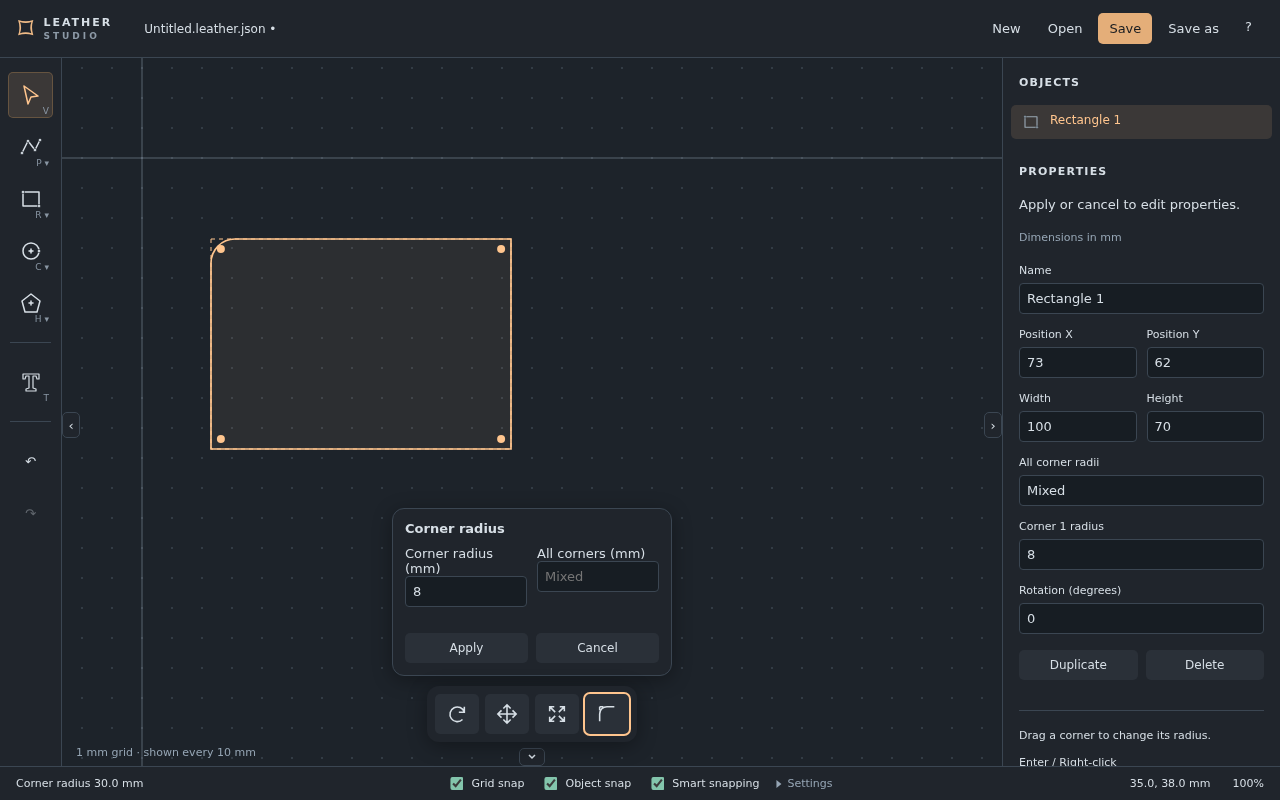
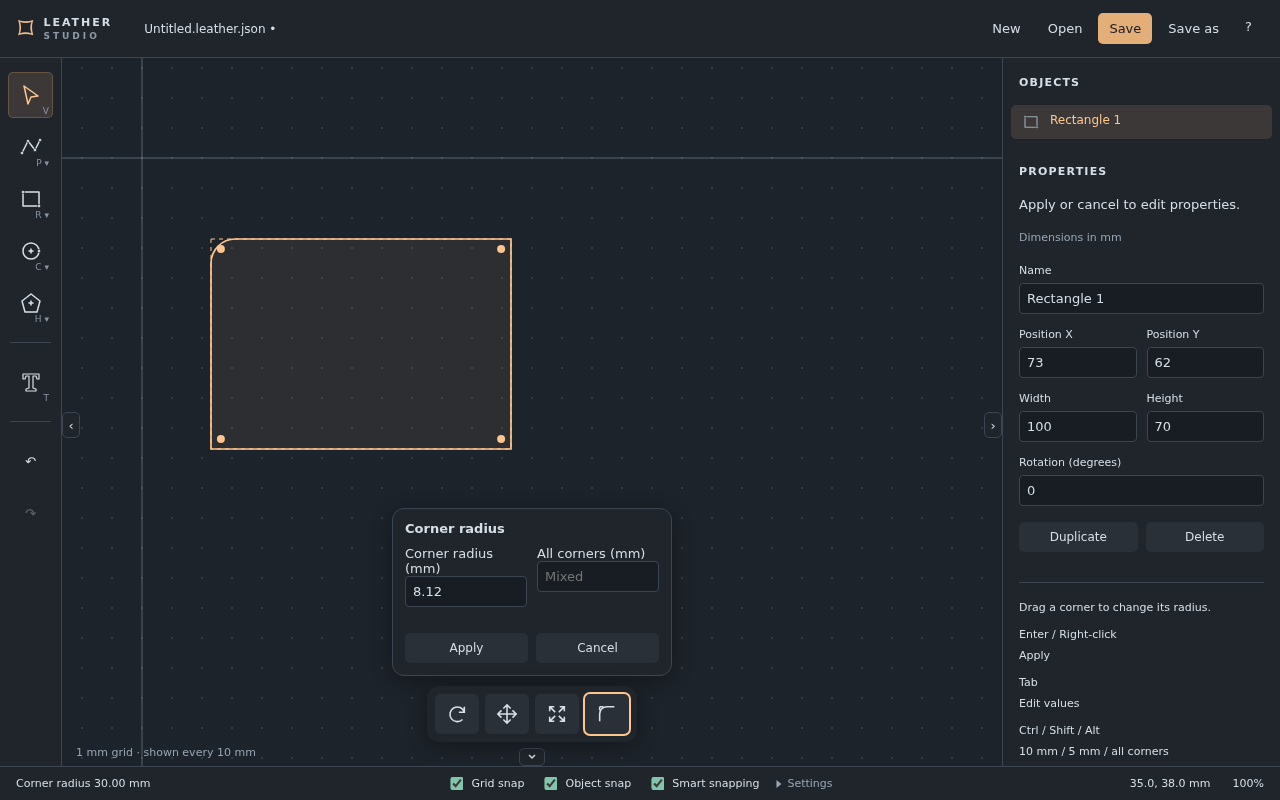
Remove corner radius fields from Properties

diff --git a/tests/editor.spec.ts b/tests/editor.spec.ts
@@ -15,6 +15,21 @@ async function rect(page: any) {
   await page.getByRole("button", { name: "Select (V)", exact: true }).click();
   await expect(page.getByLabel("Width", { exact: true })).toBeVisible();
 }
+async function cornerRadius(page: any) {
+  await page.getByRole("button", { name: "Corner radius", exact: true }).click();
+  await page.getByLabel("Pattern drawing canvas").click({
+    position: { x: 160, y: 190 },
+  });
+  return page.getByLabel("All corners (mm)", { exact: true });
+}
+async function expectRadius(page: any, value: string) {
+  await expect(await cornerRadius(page)).toHaveValue(value);
+  await page.getByRole("button", { name: "Cancel", exact: true }).click();
+}
+async function setRadius(page: any, value: string) {
+  await (await cornerRadius(page)).fill(value);
+  await page.getByRole("button", { name: "Apply", exact: true }).click();
+}
 test("precise rectangle, rounded corners, undo, redo and download", async ({
   page,
 }) => {
@@ -23,19 +38,12 @@ test("precise rectangle, rounded corners, undo, redo and download", async ({
   const width = page.getByLabel("Width", { exact: true });
   await width.fill("100");
   await width.press("Enter");
-  await page.getByLabel("All corner radii", { exact: true }).fill("10");
-  await page.getByLabel("All corner radii", { exact: true }).press("Enter");
-  await expect(
-    page.getByLabel("All corner radii", { exact: true }),
-  ).toHaveValue("10");
+  await setRadius(page, "10");
+  await expectRadius(page, "10");
   await page.getByRole("button", { name: "Undo", exact: true }).click();
-  await expect(
-    page.getByLabel("All corner radii", { exact: true }),
-  ).toHaveValue("0");
+  await expectRadius(page, "0");
   await page.getByRole("button", { name: "Redo", exact: true }).click();
-  await expect(
-    page.getByLabel("All corner radii", { exact: true }),
-  ).toHaveValue("10");
+  await expectRadius(page, "10");
   // Force the portable download path even in Chromium.
   await page.evaluate(() => {
     Object.defineProperty(window, "showSaveFilePicker", {
@@ -191,8 +199,7 @@ test("saved project opens and invalid file preserves current work", async ({
 }, info) => {
   await ready(page);
   await rect(page);
-  await page.getByLabel("All corner radii", { exact: true }).fill("8");
-  await page.getByLabel("All corner radii", { exact: true }).press("Enter");
+  await setRadius(page, "8");
   await page.evaluate(() => {
     delete (window as any).showSaveFilePicker;
     delete (window as any).showOpenFilePicker;
@@ -207,9 +214,7 @@ test("saved project opens and invalid file preserves current work", async ({
   await page.getByRole("button", { name: "Open", exact: true }).click();
   await (await chooser).setFiles(path);
   await page.locator(".objects button").first().click();
-  await expect(
-    page.getByLabel("All corner radii", { exact: true }),
-  ).toHaveValue("8");
+  await expectRadius(page, "8");
   chooser = page.waitForEvent("filechooser");
   await page.getByRole("button", { name: "Open", exact: true }).click();
   await (
@@ -293,11 +298,11 @@ test("corner tool previews, edits numerically and applies once", async ({
   await canvas.focus();
   await page.screenshot({ path: testInfo.outputPath("corner-radii.png") });
   await page.getByRole("button", { name: "Apply", exact: true }).click();
-  await expect(page.getByLabel("Corner 1 radius", { exact: true })).toHaveValue(
-    "8.12",
-  );
+  await expect(page.getByLabel("Corner 1 radius", { exact: true })).toHaveCount(0);
+  await expect(page.getByLabel("All corner radii", { exact: true })).toHaveCount(0);
+  await cornerRadius(page);
+  await expect(corner).toHaveValue("8.12");
+  await page.getByRole("button", { name: "Cancel", exact: true }).click();
   await page.getByRole("button", { name: "Undo", exact: true }).click();
-  await expect(
-    page.getByLabel("All corner radii", { exact: true }),
-  ).toHaveValue("0");
+  await expectRadius(page, "0");
 });

diff --git a/src/vue/Inspector.vue b/src/vue/Inspector.vue
@@ -1,8 +1,6 @@
 <script setup lang="ts">
 import { computed } from "vue";
 import {
-  cornerRadii,
-  setCornerRadius,
   isPolygon,
   polygonFillets,
   center,
@@ -47,14 +45,6 @@ const e = useEditor(),
         Math.hypot(matrix.value.c, matrix.value.d),
   ),
   vertices = computed(() => worldPoints(s.value!));
-const selectedRadii = computed(() => (s.value ? cornerRadii(s.value) : []));
-const selectedCornerShape = computed(() => {
-  const corner = e.value.selectedCorner;
-  const shape = selected.value.find((shape) => shape.id === corner?.shapeId);
-  return shape && corner && corner.index < cornerRadii(shape).length
-    ? shape
-    : null;
-});
 function isSharp(shape: Shape, index: number) {
   const handles = shape.handles?.[index];
   return (
@@ -220,33 +210,6 @@ function vertex(i: number, axis: "x" | "y", v: string) {
       />
     </div>
     <Field
-      v-if="s.kind === 'rectangle' || isPolygon(s)"
-      :label="s.transform ? 'All corner radii (local)' : 'All corner radii'"
-      :precision="2"
-      :step="0.01"
-      :value="
-        selectedRadii.every((r) => r === selectedRadii[0])
-          ? selectedRadii[0]
-          : 'Mixed'
-      "
-      :min="0"
-      :max="
-        isPolygon(s)
-          ? polygonFillets(s).max
-          : Math.min(Math.abs(b.x - a.x), Math.abs(b.y - a.y)) / 2
-      "
-      @commit="edit(setCornerRadius(s, 0, +$event, true))"
-    />
-    <Field
-      v-if="selectedCornerShape?.id === s.id && e.selectedCorner"
-      :label="`Corner ${e.selectedCorner.index + 1} radius${s.transform ? ' (local)' : ''}`"
-      :precision="2"
-      :step="0.01"
-      :value="selectedRadii[e.selectedCorner.index]"
-      :min="0"
-      @commit="edit(setCornerRadius(s, e.selectedCorner!.index, +$event))"
-    />
-    <Field
       v-if="s.kind === 'circle' || s.kind === 'arc'"
       :label="s.transform ? 'Radius (local)' : 'Radius'"
       :value="+distance(a, b).toFixed(1)"
@@ -313,20 +276,6 @@ function vertex(i: number, axis: "x" | "y", v: string) {
       }}
     </p>
   </template>
-  <Field
-    v-if="!s && selectedCornerShape && e.selectedCorner"
-    :label="`${selectedCornerShape.name}: corner ${e.selectedCorner.index + 1} radius`"
-    :precision="2"
-    :step="0.01"
-    :value="cornerRadii(selectedCornerShape)[e.selectedCorner.index]"
-    :min="0"
-    @commit="
-      editor.edit(
-        selectedCornerShape.id,
-        setCornerRadius(selectedCornerShape, e.selectedCorner!.index, +$event),
-      )
-    "
-  />
   <div v-if="selected.length" class="actions">
     <button :disabled="!e.ready" @click="editor.duplicate()">Duplicate</button>
     <button :disabled="!e.ready" @click="editor.delete()">Delete</button>

diff --git a/tests/transforms.spec.ts b/tests/transforms.spec.ts
@@ -70,11 +70,11 @@ test("numeric transforms, pivot, cancellation, history and affine file recovery"
   await page.getByRole("button", { name: "Apply", exact: true }).click();
   await expect(
     page.getByLabel("All corner radii (local)", { exact: true }),
-  ).toBeVisible();
+  ).toHaveCount(0);
   await page.getByRole("button", { name: "Undo", exact: true }).click();
   await expect(
     page.getByLabel("All corner radii", { exact: true }),
-  ).toHaveValue("8");
+  ).toHaveCount(0);
   await page.getByRole("button", { name: "Redo", exact: true }).click();
   await page.getByRole("button", { name: "Move", exact: true }).click();
   await page.getByLabel("X (mm)", { exact: true }).fill("15");
@@ -112,6 +112,7 @@ test("numeric transforms, pivot, cancellation, history and affine file recovery"
   const saved = (await (await downloading).path())!;
   const document = JSON.parse(await readFile(saved, "utf8"));
   expect(document.version).toBe(7);
+  expect(document.shapes[0].radius).toBe(8);
   expect(document.shapes.every((s: any) => s.transform)).toBe(true);
   expect(document.shapes[1].kind).toBe("arc");
   const chooser = page.waitForEvent("filechooser");

diff --git a/tests/polygon-radius.spec.ts b/tests/polygon-radius.spec.ts
@@ -43,10 +43,15 @@ test("closed polygons expose tangent rounded corners", async ({
   });
   for (let i = 0; i < 2; i++) {
     await page.locator(".objects button").nth(i).click();
-    const radius = page.getByLabel("All corner radii", { exact: true });
+    await expect(page.getByLabel("All corner radii", { exact: true })).toHaveCount(0);
+    await page.getByRole("button", { name: "Corner radius", exact: true }).click();
+    await page.getByLabel("Pattern drawing canvas").click({
+      position: i === 0 ? { x: 152, y: 167 } : { x: 360, y: 170 },
+    });
+    const radius = page.getByLabel("All corners (mm)", { exact: true });
     await radius.fill("8");
-    await radius.press("Enter");
     await expect(radius).toHaveValue("8");
+    await page.getByRole("button", { name: "Apply", exact: true }).click();
   }
   await page.screenshot({ path: info.outputPath("rounded-polygons.png") });
 });

diff --git a/docs/manual/measurements.md b/docs/manual/measurements.md
@@ -8,7 +8,7 @@ Hold Ctrl to display selected edge lengths. Click a measurement to edit it, or u
 
 Grid snap, Object snap, and Smart snapping are independent footer controls. Smart snapping defaults to enabled and remembers your preference. It aligns points with other objects’ world-axis bounding edges and horizontal and vertical centers within eight screen pixels. The reference object is highlighted with a contrasting outline. Dashed guides stop at the reference object’s world-aligned bounds; center alignment displays the corresponding horizontal or vertical axis. Snapping to the object’s center point highlights both axes. Labels identify the alignment and reference object. Object snap takes priority, followed by Smart snapping and Grid snap. Grid spacing is in Settings. Hold Alt to bypass positional snapping while drawing, moving, or placing a pivot.
 
-Properties exposes positions, dimensions, radii, rotation, and path vertices. Affine-transformed radii labelled local refer to the shape’s local dimensions.
+Properties exposes positions, dimensions, circle and arc radii, rotation, and path vertices. Affine-transformed radii labelled local refer to the shape’s local dimensions. Edit corner radii with the [Corner radius tool](#transforms), using its corner-radius and all-corners fields. Corner radius fields are not shown in Properties.
 
 Object snap also offers the average position of all polygon corners as a center point. The repeated closing corner is counted once; rounded polygons use their original corners. Center-point snapping shows both axes when Smart snapping is enabled.
 
